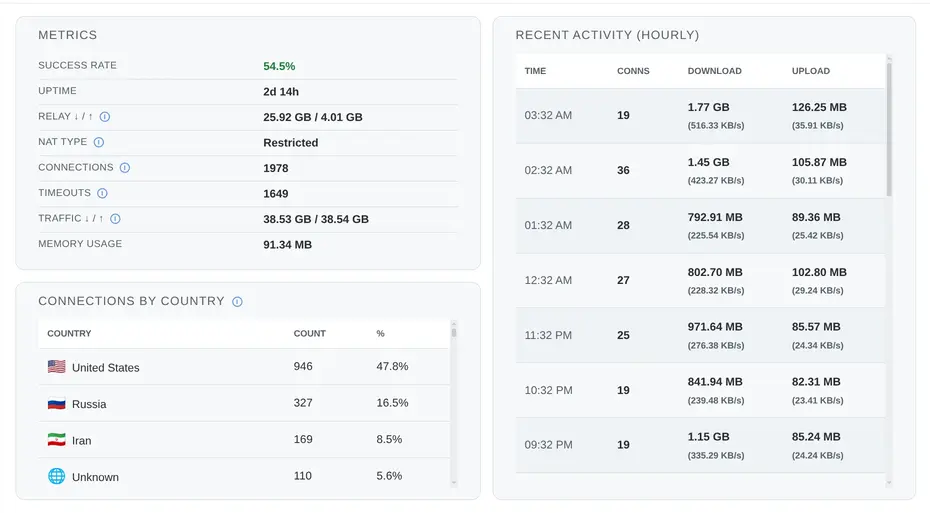
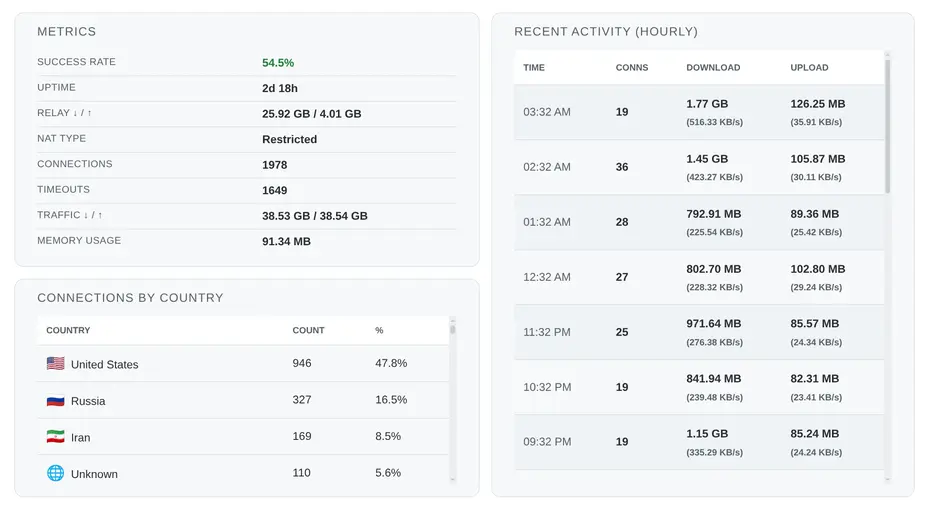
better tooltips

diff --git a/index.html b/index.html
@@ -14,41 +14,41 @@
             <div class="stat">
                 <div class="label">Metrics</div>
                 <div class="metric-row">
-                    <span>Success Rate</span>
+                    <span title="Percentage of successful connections vs total attempts">Success Rate</span>
                     <span class="success-rate" id="success-rate-small">-</span>
                 </div>
                 <div class="metric-row">
-                    <span>Uptime</span>
+                    <span title="How long the Snowflake proxy has been running">Uptime</span>
                     <span id="uptime">-</span>
                 </div>
                 <div class="metric-row">
-                    <span>Relay ↓ / ↑ <span title="Data relayed from Tor to clients / from clients to Tor"><svg class="info-icon" viewBox="0 0 16 16" fill="currentColor"><circle cx="8" cy="8" r="7" fill="none" stroke="currentColor" stroke-width="1.5"/><text x="8" y="11.5" text-anchor="middle" font-size="10" font-weight="600">i</text></svg></span></span>
+                    <span title="Data relayed from Tor to clients / from clients to Tor">Relay ↓ / ↑</span>
                     <span id="tor-traffic">-</span>
                 </div>
                 <div class="metric-row" id="nat-row" hidden>
-                    <span>NAT Type <span title="Your network's NAT configuration"><svg class="info-icon" viewBox="0 0 16 16" fill="currentColor"><circle cx="8" cy="8" r="7" fill="none" stroke="currentColor" stroke-width="1.5"/><text x="8" y="11.5" text-anchor="middle" font-size="10" font-weight="600">i</text></svg></span></span>
+                    <span title="Your network's NAT configuration - determines proxy compatibility">NAT Type</span>
                     <span id="nat-type">-</span>
                 </div>
                 <div class="metric-row">
-                    <span>Connections <span title="Successful client connections completed"><svg class="info-icon" viewBox="0 0 16 16" fill="currentColor"><circle cx="8" cy="8" r="7" fill="none" stroke="currentColor" stroke-width="1.5"/><text x="8" y="11.5" text-anchor="middle" font-size="10" font-weight="600">i</text></svg></span></span>
+                    <span title="Successful client connections completed">Connections</span>
                     <span id="total">-</span>
                 </div>
                 <div class="metric-row">
-                    <span>Timeouts <span title="Connection attempts that failed after rendezvous"><svg class="info-icon" viewBox="0 0 16 16" fill="currentColor"><circle cx="8" cy="8" r="7" fill="none" stroke="currentColor" stroke-width="1.5"/><text x="8" y="11.5" text-anchor="middle" font-size="10" font-weight="600">i</text></svg></span></span>
+                    <span title="Connection attempts that failed or timed out">Timeouts</span>
                     <span id="timeouts">-</span>
                 </div>
                 <div class="metric-row">
-                    <span>Traffic ↓ / ↑ <span title="Total proxy network traffic received / sent"><svg class="info-icon" viewBox="0 0 16 16" fill="currentColor"><circle cx="8" cy="8" r="7" fill="none" stroke="currentColor" stroke-width="1.5"/><text x="8" y="11.5" text-anchor="middle" font-size="10" font-weight="600">i</text></svg></span></span>
+                    <span title="Total proxy network traffic received / sent">Traffic ↓ / ↑</span>
                     <span id="total-traffic">-</span>
                 </div>
                 <div class="metric-row">
-                    <span>Memory Usage</span>
+                    <span title="Current memory consumption of the proxy process">Memory Usage</span>
                     <span id="memory">-</span>
                 </div>
             </div>
             
             <div class="stat">
-                <div class="label">Connections by Country <span title="Successful connections by client country."><svg class="info-icon" viewBox="0 0 16 16" fill="currentColor"><circle cx="8" cy="8" r="7" fill="none" stroke="currentColor" stroke-width="1.5"/><text x="8" y="11.5" text-anchor="middle" font-size="10" font-weight="600">i</text></svg></span></div>
+                <div class="label">Connections by Country</div>
                 <div class="table-scroll">
                     <table id="countries">
                         <tr><th>Country</th><th>Count</th><th>%</th></tr>

diff --git a/script.js b/script.js
@@ -108,6 +108,15 @@ async function fetchNatType() {
         if (el && !isUnknown) {
             const capitalized = natType.charAt(0).toUpperCase() + natType.slice(1).toLowerCase();
             el.textContent = capitalized;
+            
+            const natLower = natType.toLowerCase();
+            if (natLower === 'unrestricted') {
+                el.title = 'Address-independent NAT mapping. Compatible with most other NATs and can connect to restricted proxies.';
+            } else if (natLower === 'restricted') {
+                el.title = 'Address-dependent NAT mapping. May have limited compatibility with other restricted NATs.';
+            } else if (natLower === 'unknown') {
+                el.title = 'NAT type could not be determined. Probe test may have failed or not completed yet.';
+            }
         }
     } catch (_e) {
         const el = document.getElementById('nat-type');

diff --git a/styles.css b/styles.css
@@ -82,14 +82,7 @@ body {
 	letter-spacing: 0.03125em;
 }
 
-.info-icon {
-	display: inline-block;
-	margin-left: 0.25rem;
-	color: var(--accent-color);
-	opacity: 0.7;
-	width: 0.875rem;
-	height: 0.875rem;
-	vertical-align: middle;
+[title] {
 	cursor: help;
 }
 
@@ -327,10 +320,6 @@ tr:last-child td {
 	.label {
 		font-size: 0.9375rem;
 		margin-bottom: 0.75rem;
-	}
-
-	.info-icon {
-		display: none;
 	}
 
 	th,
